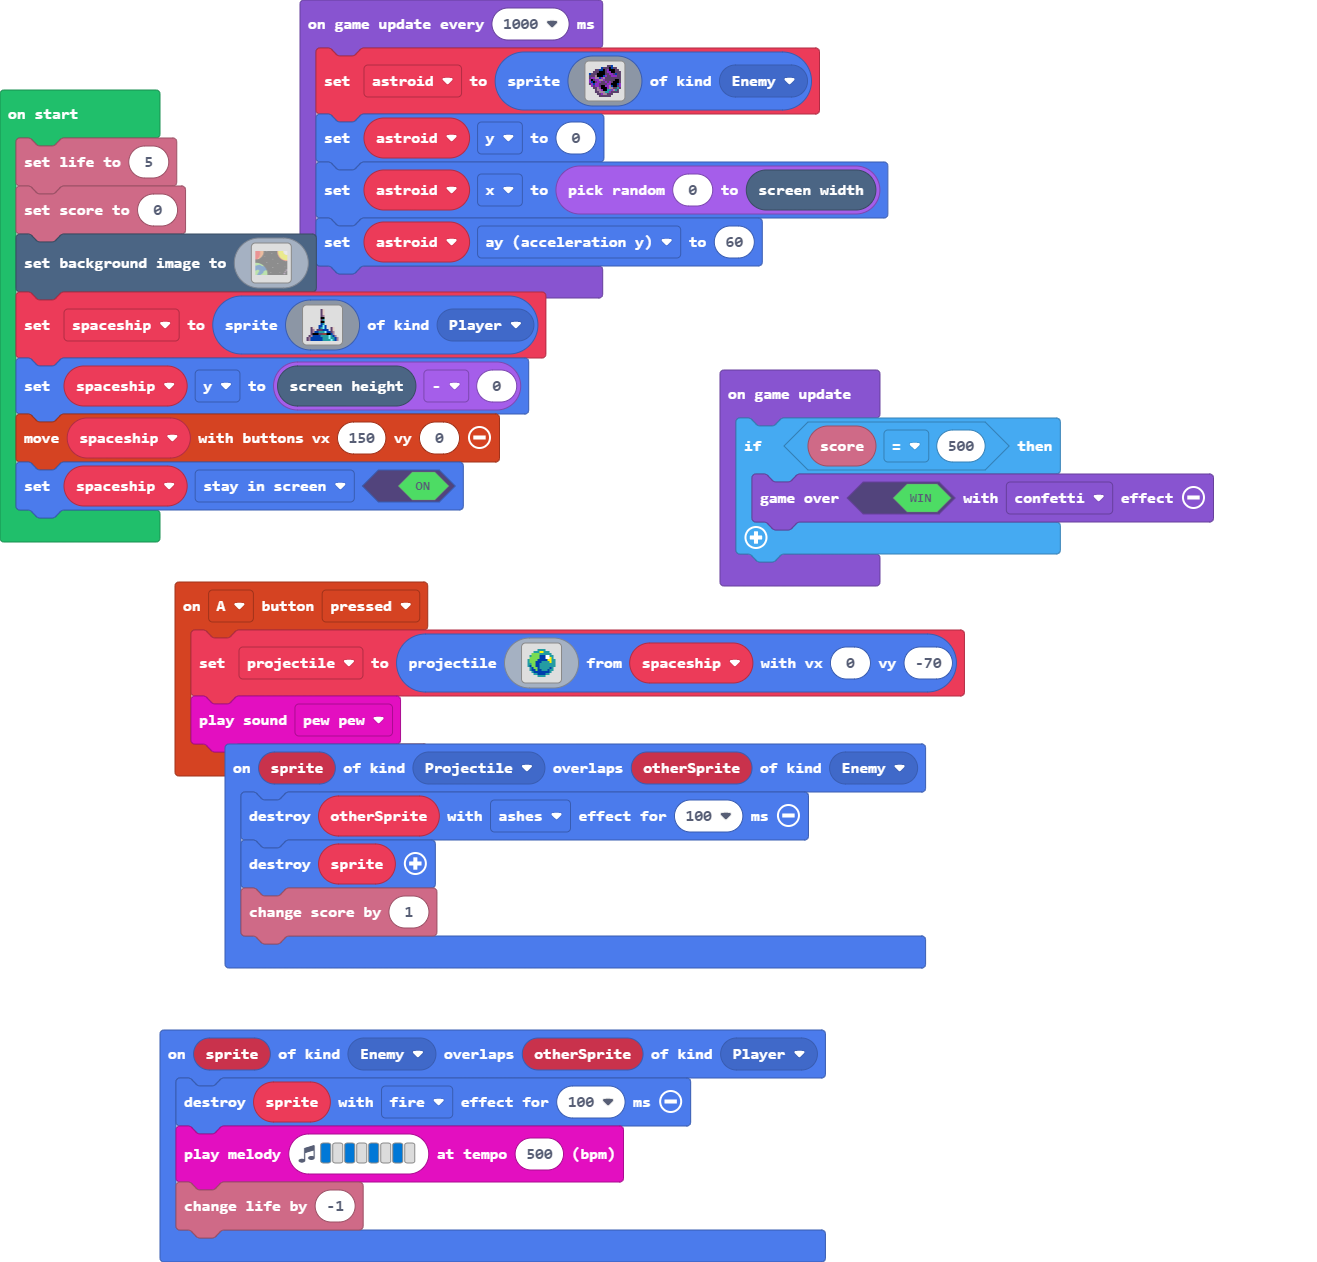
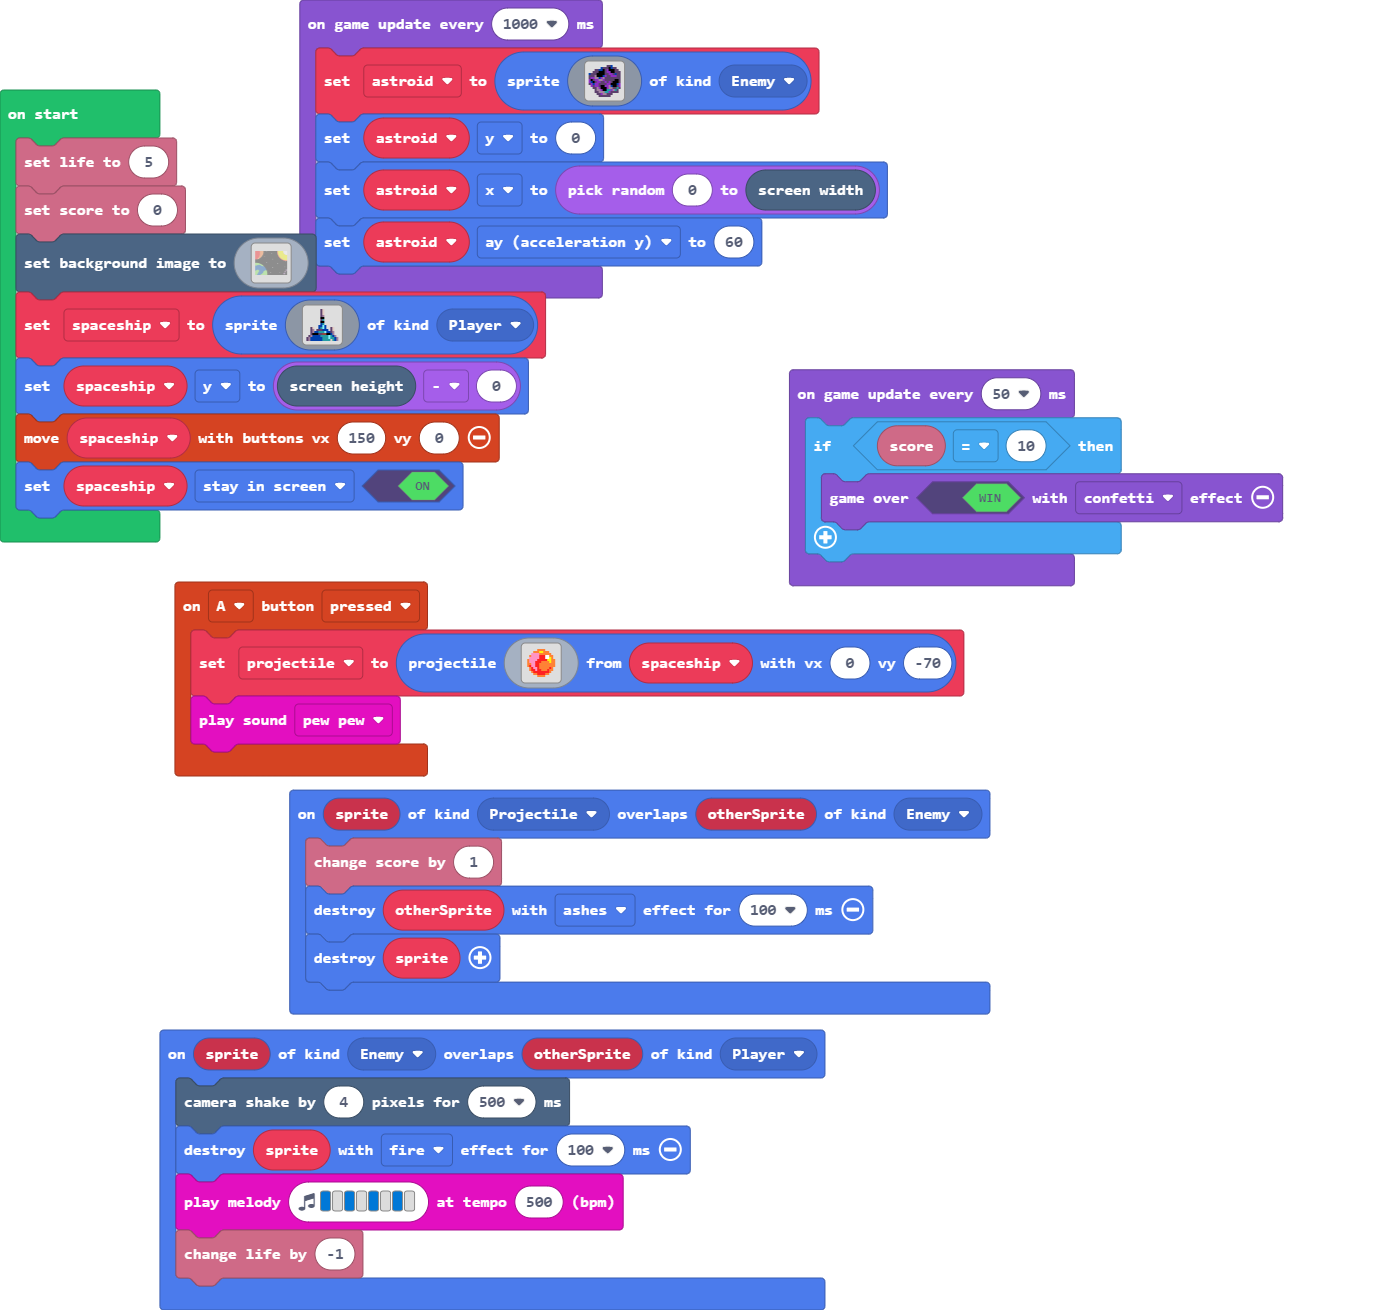
added mars, nye skud, lyde

diff --git a/main.ts b/main.ts
@@ -1,33 +1,34 @@
 controller.A.onEvent(ControllerButtonEvent.Pressed, function () {
     projectile = sprites.createProjectileFromSprite(img`
         . . . . . . . . . . . . . . . . 
-        . . . . . . 6 6 6 6 . . . . . . 
-        . . . . 6 6 6 5 5 6 6 6 . . . . 
-        . . . 7 7 7 7 6 6 6 6 6 6 . . . 
-        . . 6 7 7 7 7 8 8 8 1 1 6 6 . . 
-        . . 7 7 7 7 7 8 8 8 1 1 5 6 . . 
-        . 6 7 7 7 7 8 8 8 8 8 5 5 6 6 . 
-        . 6 7 7 7 8 8 8 6 6 6 6 5 6 6 . 
-        . 6 6 7 7 8 8 6 6 6 6 6 6 6 6 . 
-        . 6 8 7 7 8 8 6 6 6 6 6 6 6 6 . 
-        . . 6 8 7 7 8 6 6 6 6 6 8 6 . . 
-        . . 6 8 8 7 8 8 6 6 6 8 6 6 . . 
-        . . . 6 8 8 8 8 8 8 8 8 6 . . . 
-        . . . . 6 6 8 8 8 8 6 6 . . . . 
-        . . . . . . 6 6 6 6 . . . . . . 
+        . . . . . . 4 4 4 4 . . . . . . 
+        . . . . 4 4 4 5 5 4 4 4 . . . . 
+        . . . 3 3 3 3 4 4 4 4 4 4 . . . 
+        . . 4 3 3 3 3 2 2 2 1 1 4 4 . . 
+        . . 3 3 3 3 3 2 2 2 1 1 5 4 . . 
+        . 4 3 3 3 3 2 2 2 2 2 5 5 4 4 . 
+        . 4 3 3 3 2 2 2 4 4 4 4 5 4 4 . 
+        . 4 4 3 3 2 2 4 4 4 4 4 4 4 4 . 
+        . 4 2 3 3 2 2 4 4 4 4 4 4 4 4 . 
+        . . 4 2 3 3 2 4 4 4 4 4 2 4 . . 
+        . . 4 2 2 3 2 2 4 4 4 2 4 4 . . 
+        . . . 4 2 2 2 2 2 2 2 2 4 . . . 
+        . . . . 4 4 2 2 2 2 4 4 . . . . 
+        . . . . . . 4 4 4 4 . . . . . . 
         . . . . . . . . . . . . . . . . 
         `, spaceship, 0, -70)
     music.pewPew.play()
 })
 sprites.onOverlap(SpriteKind.Enemy, SpriteKind.Player, function (sprite, otherSprite) {
+    scene.cameraShake(4, 500)
     sprite.destroy(effects.fire, 100)
     music.playMelody("E - E - E - E - ", 500)
     info.changeLifeBy(-1)
 })
 sprites.onOverlap(SpriteKind.Projectile, SpriteKind.Enemy, function (sprite, otherSprite) {
+    info.changeScoreBy(1)
     otherSprite.destroy(effects.ashes, 100)
     sprite.destroy()
-    info.changeScoreBy(1)
 })
 let astroid: Sprite = null
 let projectile: Sprite = null
@@ -172,13 +173,13 @@ spaceship = sprites.create(img`
     . . c f f f c c e e f f 8 b . . 
     . c b 8 8 8 8 6 6 6 6 9 6 8 b . 
     c b 8 8 8 8 8 8 6 6 6 9 6 6 8 b 
-    c b 8 8 8 8 8 8 6 6 6 6 9 6 8 b 
+    c b 8 8 8 8 8 8 6 6 6 6 d 6 8 b 
     `, SpriteKind.Player)
 spaceship.y = scene.screenHeight() - 0
 controller.moveSprite(spaceship, 150, 0)
 spaceship.setFlag(SpriteFlag.StayInScreen, true)
-game.onUpdate(function () {
-    if (info.score() == 500) {
+game.onUpdateInterval(50, function () {
+    if (info.score() == 10) {
         game.over(true, effects.confetti)
     }
 })
